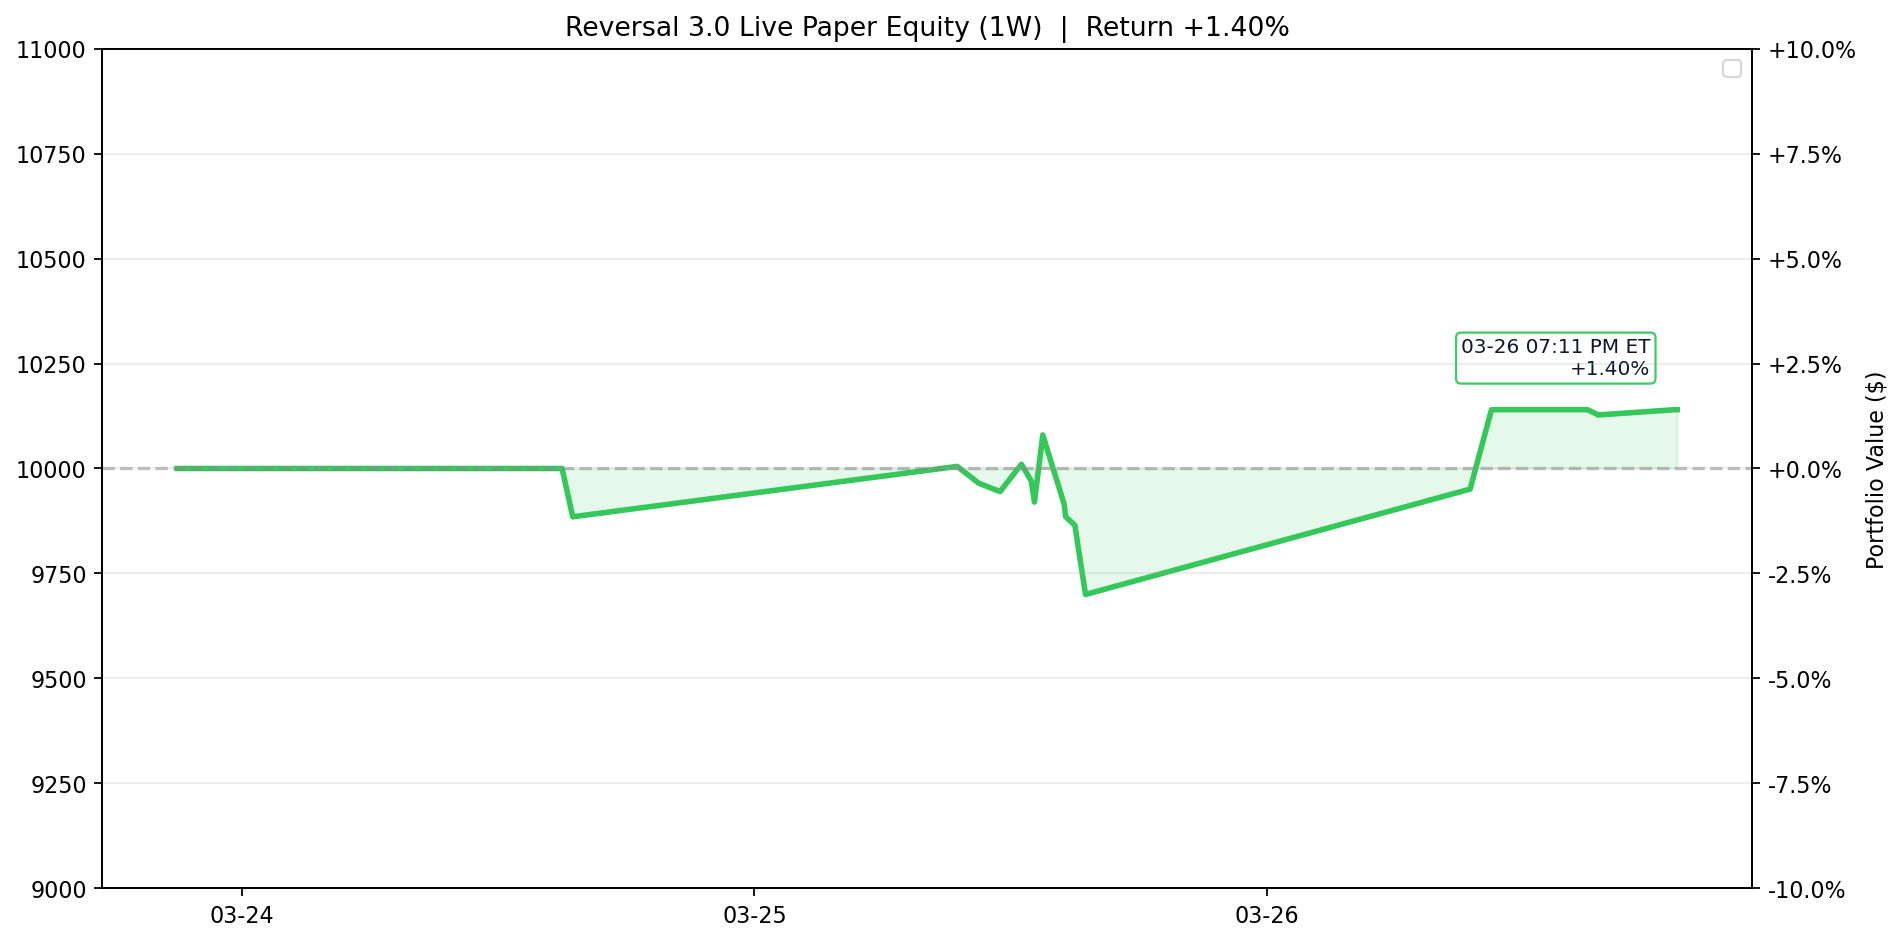
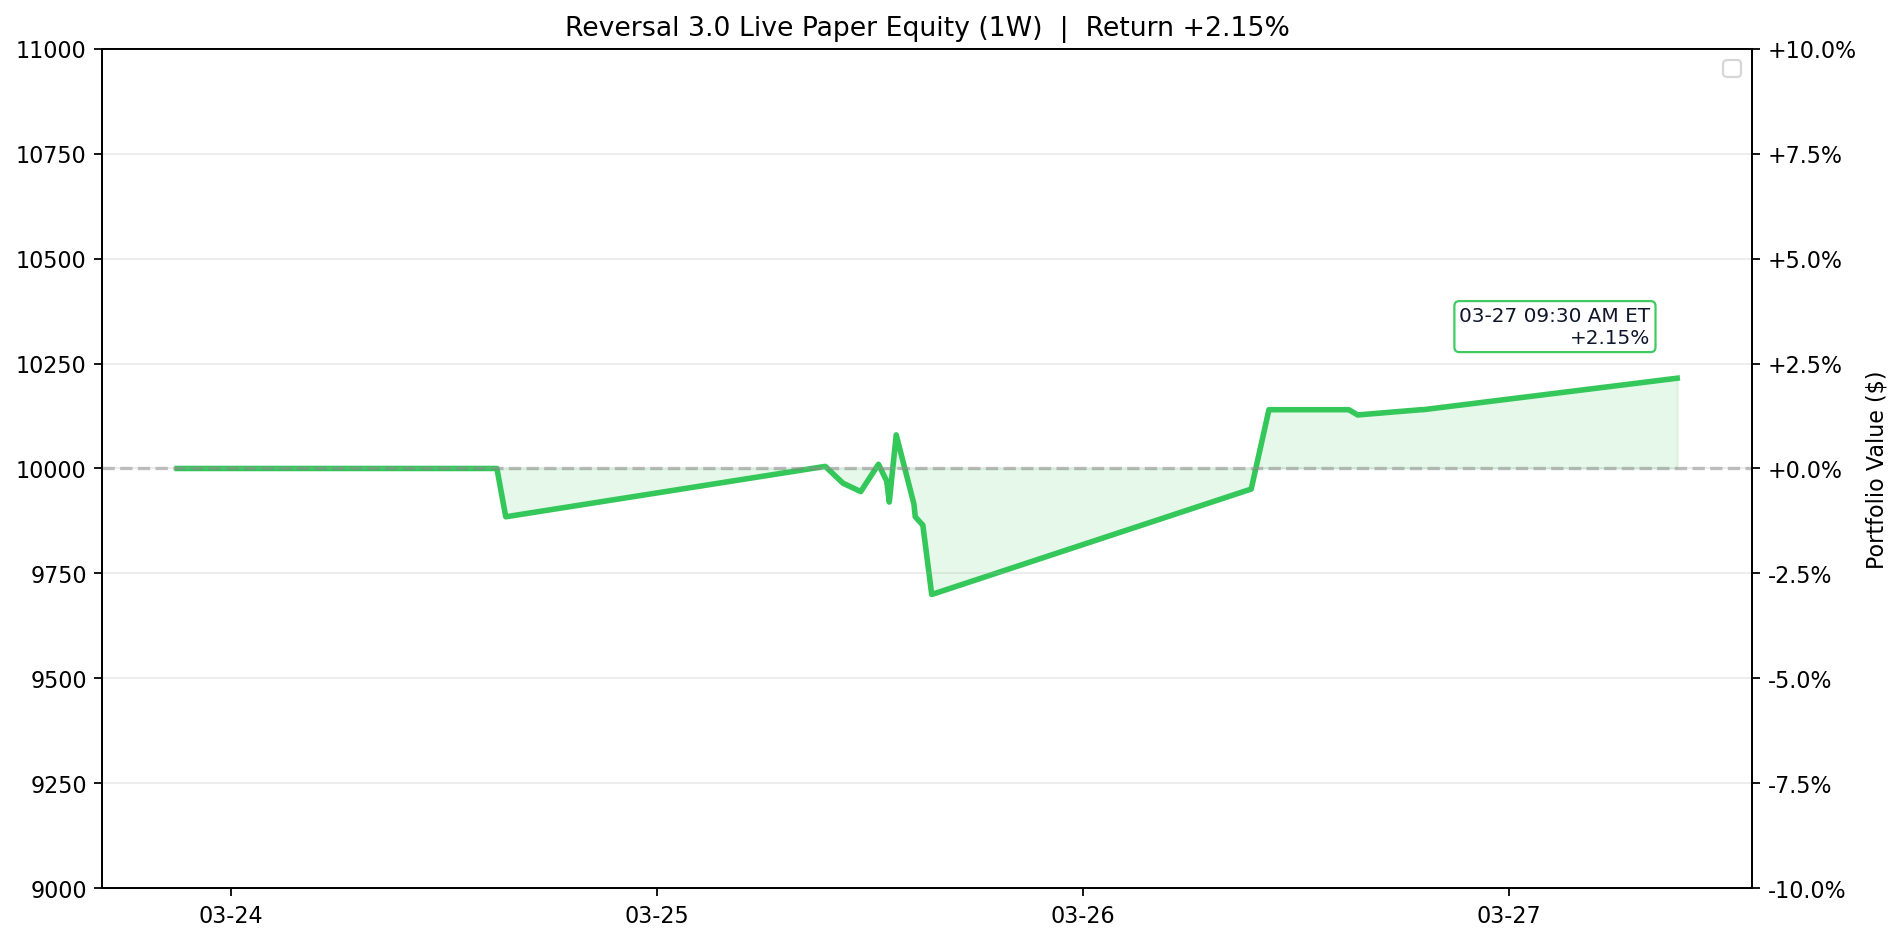
Update Reversal 3.0 live paper test 2026-03-27 09:30 ET

diff --git a/results/reversal_3_0_live/README.md b/results/reversal_3_0_live/README.md
@@ -1,7 +1,7 @@
 # Reversal 3.0 Live Paper Test
 
-Last updated (ET): `2026-03-26 19:11:30 EDT`
-Last processed slot: `manual_refresh`
+Last updated (ET): `2026-03-27 09:30:06 EDT`
+Last processed slot: `manage_0930`
 
 ## Active Configuration
 
@@ -20,48 +20,45 @@ Last processed slot: `manual_refresh`
 ## Portfolio Snapshot
 
 - Cash: `$5,215.00`
-- Equity: `$10,140.00`
+- Equity: `$10,215.00`
 - Realized PnL: `$140.00`
-- Unrealized PnL: `$0.00`
+- Unrealized PnL: `$75.00`
 - Open positions: `1`
 
 ## Open Positions
 
 ```text
 ticker     contract_symbol entry_trade_date  business_days_held  entry_option_price  current_option_price  entry_spot  current_spot  unrealized_pnl  unrealized_return_pct  success_rate  matched_signals  current_drop_pct  entry_iv_pct  current_iv_pct  rolling_sigma_20d_pct
-  ABNB ABNB260515C00130000       2026-03-26                   0                9.85                  9.85      130.79        131.13             0.0                    0.0         94.29               35              0.77         51.93           49.44                  28.73
+  ABNB ABNB260515C00130000       2026-03-26                   1                9.85                  10.0      130.79         129.7            75.0                   1.52         94.29               35              0.77         51.93             0.2                  28.73
 ```
 
-## Today's Closed Trades (2026-03-26)
+## Today's Closed Trades (2026-03-27)
 
-```text
-ticker     contract_symbol entry_trade_date_et exit_trade_date_et  entry_option_price  exit_option_price    pnl  return_pct                  exit_reason
-  AVGO AVGO260515C00320000          2026-03-24         2026-03-26              22.725             20.025 -540.0  -11.881188        stop_loss_hit_at_scan
-  FANG FANG260515C00195000          2026-03-25         2026-03-26              12.200             13.900  680.0   13.934426 take_profit_day1_hit_at_scan
-```
+_None_
 
 ## Current Screener Snapshot
 
 ```text
 ticker  success_rate_%  matched_signals  current_drop_%  target_rebound_$  target_price  rolling_sigma_20d_%  call_candidate
-  SBUX           93.75               16            1.38              0.90         92.32                29.63            True
-  ABNB           93.18               44            0.52              0.48        131.61                28.73            True
-  CDNS           90.91               44            0.64              1.25        280.85                23.40            True
-   WMT           90.32               31            0.68              0.58        122.81                23.35            True
-  SNPS           88.89               36            1.15              3.31        408.71                32.59            True
-  PCAR           88.57               35            0.79              0.64        116.06                24.57            True
-  AVGO           86.67               15            2.56              5.72        316.36                37.11            True
-  INSM           85.00               40            0.92              0.95        147.90                48.80            True
-  SHOP           84.85               33            1.66              1.38        117.83                51.12            True
-  MCHP           83.87               31            1.01              0.46         64.96                34.70            True
-  TMUS           83.87               31            0.62              0.92        210.96                21.31            True
-  TSLA           82.35               17            3.07              8.28        382.40                32.52            True
+  INTC           93.94               33            1.56              0.48         43.89                64.25            True
+  ABNB           93.55               31            1.23              1.13        130.58                28.75            True
+  SBUX           93.33               15            1.55              0.99         90.80                29.92            True
+  AVGO           92.31               39            0.95              2.05        308.54                38.20            True
+  DXCM           91.67               36            1.18              0.55         65.86                25.75            True
+  NVDA           91.67               36            0.57              0.69        170.95                31.98            True
+  ROST           91.67               24            0.59              0.88        213.92                32.94            True
+  FTNT           91.67               12            2.78              1.58         80.35                27.82            True
+  CTAS           90.91               33            0.52              0.61        168.59                26.37            True
+  ASML           90.62               32            0.56              5.25       1327.25                47.14            True
+  FAST           90.00               30            0.71              0.22         45.01                20.37            True
+  SNPS           89.74               39            0.69              1.94        401.12                31.55            True
 ```
 
 ## Recent Events
 
 ```text
                     timestamp_et         slot   event_type                                                                                                                                                                             detail
+2026-03-27T09:30:06.387888-04:00 data_refresh data_refresh                                                                                                                                                                      {'saved': 97}
 2026-03-26T15:00:01.983935-04:00   entry_1500        entry   {"allocated_cash": 4925.0, "contract_symbol": "ABNB260515C00130000", "contracts": 5, "entry_option_price": 9.85, "matched_signals": 35, "success_rate": 94.29, "ticker": "ABNB"}
 2026-03-26T10:30:00.722036-04:00  manage_1030         exit                                                           {"contract_symbol": "AVGO260515C00320000", "pnl": -540.0, "reason": "stop_scan", "return_pct": -11.88, "ticker": "AVGO"}
 2026-03-26T10:30:00.722036-04:00  manage_1030         exit                                                          {"contract_symbol": "FANG260515C00195000", "pnl": 680.0, "reason": "tp_day1_scan", "return_pct": 13.93, "ticker": "FANG"}
@@ -71,7 +68,6 @@ ticker  success_rate_%  matched_signals  current_drop_%  target_rebound_$  targe
 2026-03-25T09:30:01.175501-04:00 data_refresh data_refresh                                                                                                                                                                      {'saved': 97}
 2026-03-24T15:00:05.740108-04:00   entry_1500        entry {"allocated_cash": 4545.0, "contract_symbol": "AVGO260515C00320000", "contracts": 2, "entry_option_price": 22.725, "matched_signals": 30, "success_rate": 93.33, "ticker": "AVGO"}
 2026-03-24T13:30:05.751589-04:00  manage_1330 slot_skipped                                                                                                                                                    {"reason": "already_processed"}
-2026-03-24T13:25:36.643365-04:00 data_refresh data_refresh                                                                                                                                                                      {'saved': 97}
 ```
 
 ## Equity Curve (1W)

diff --git a/README.md b/README.md
@@ -3,15 +3,15 @@
 <!-- reversal-3.0-live:start -->
 ## Reversal 3.0 Live Paper Test
 
-- Last updated (ET): `2026-03-26 19:11:30 EDT`
-- Equity: `$10,140.00` | Realized: `$140.00` | Unrealized: `$0.00` | Open positions: `1`
-- Today closed trades: `2`
-- Current slot: `manual_refresh`
+- Last updated (ET): `2026-03-27 09:30:06 EDT`
+- Equity: `$10,215.00` | Realized: `$140.00` | Unrealized: `$75.00` | Open positions: `1`
+- Today closed trades: `0`
+- Current slot: `manage_0930`
 - Chart: trailing `1W` with ET timestamps
 
 ```text
 ticker     contract_symbol  current_option_price  unrealized_pnl  unrealized_return_pct  business_days_held
-  ABNB ABNB260515C00130000                  9.85             0.0                    0.0                   0
+  ABNB ABNB260515C00130000                  10.0            75.0                   1.52                   1
 ```
 
 ![Reversal 3.0 Live Equity 1W](assets/reversal_3_0_live_equity.png)
